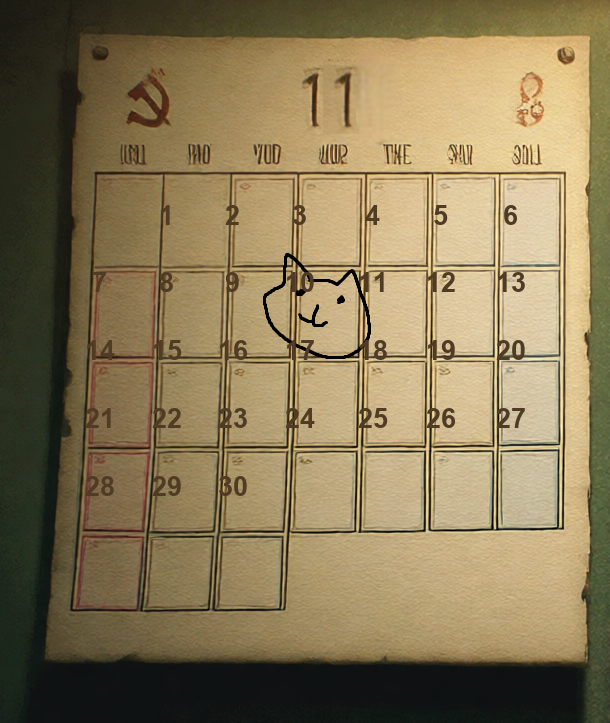
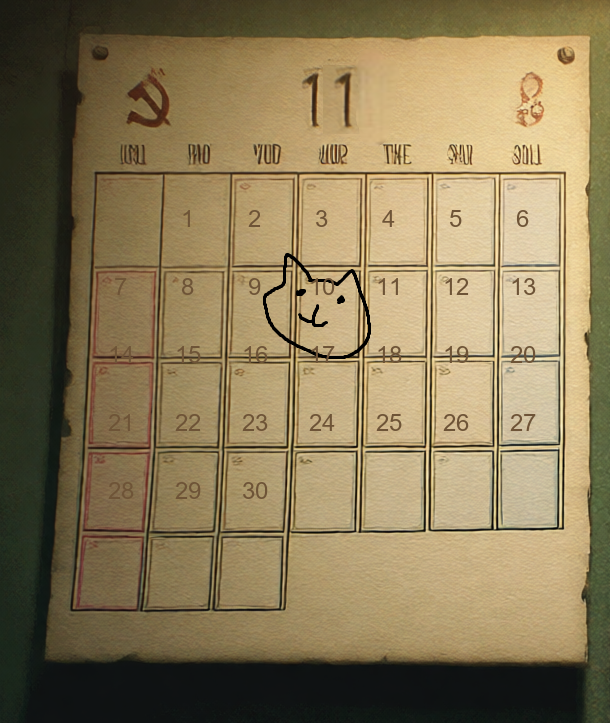
Calendar numbers fit cells; cat on 10

diff --git a/index.html b/index.html
@@ -10,10 +10,10 @@
   <link rel="apple-touch-icon" href="assets/img/favicon.png">
   <link rel="preconnect" href="https://fonts.googleapis.com">
   <link href="https://fonts.googleapis.com/css2?family=DotGothic16&family=Handjet:wght@400..700&family=Noto+Sans+JP:wght@400;500&family=Press+Start+2P&display=swap" rel="stylesheet">
-  <link rel="stylesheet" href="css/base.css?v=26">
-  <link rel="stylesheet" href="css/scenes.css?v=26">
-  <link rel="stylesheet" href="css/ui.css?v=26">
-  <link rel="stylesheet" href="css/effects.css?v=26">
+  <link rel="stylesheet" href="css/base.css?v=27">
+  <link rel="stylesheet" href="css/scenes.css?v=27">
+  <link rel="stylesheet" href="css/ui.css?v=27">
+  <link rel="stylesheet" href="css/effects.css?v=27">
 </head>
 <body>
   <noscript><style>#loader{display:none}</style></noscript>
@@ -273,19 +273,19 @@ DUO QUEUE: ОНЛАЙН.</pre>
       }
     }, 45000);
   </script>
-  <script src="js/zoom.js?v=26"></script>
-  <script src="js/state.js?v=26"></script>
-  <script src="js/scenes.js?v=26"></script>
-  <script src="js/inventory.js?v=26"></script>
-  <script src="js/notes.js?v=26"></script>
-  <script src="js/preload.js?v=26"></script>
-  <script src="js/scene0-boot.js?v=26"></script>
-  <script src="js/scene1-commissariat.js?v=26"></script>
-  <script src="js/scene2-station.js?v=26"></script>
-  <script src="js/scene3-dream.js?v=26"></script>
-  <script src="js/scene4-map.js?v=26"></script>
-  <script src="js/endings.js?v=26"></script>
-  <script src="js/final.js?v=26"></script>
-  <script src="js/audio.js?v=26"></script>
+  <script src="js/zoom.js?v=27"></script>
+  <script src="js/state.js?v=27"></script>
+  <script src="js/scenes.js?v=27"></script>
+  <script src="js/inventory.js?v=27"></script>
+  <script src="js/notes.js?v=27"></script>
+  <script src="js/preload.js?v=27"></script>
+  <script src="js/scene0-boot.js?v=27"></script>
+  <script src="js/scene1-commissariat.js?v=27"></script>
+  <script src="js/scene2-station.js?v=27"></script>
+  <script src="js/scene3-dream.js?v=27"></script>
+  <script src="js/scene4-map.js?v=27"></script>
+  <script src="js/endings.js?v=27"></script>
+  <script src="js/final.js?v=27"></script>
+  <script src="js/audio.js?v=27"></script>
 </body>
 </html>

diff --git a/js/scene1-commissariat.js b/js/scene1-commissariat.js
@@ -306,7 +306,7 @@ Discord. Я написала первой.</pre>`;
           state.flags.calendarStep = 1;
           saveState();
           showViewer(
-            'assets/img/calendar-november.png?v=5',
+            'assets/img/calendar-november.png?v=6',
             '10 ноября обведено котиком. За календарём, между страницами, что-то есть...',
             'Календарь, ноябрь',
             '10 ноября обведено котиком. Между страницами что-то есть...'

diff --git a/js/preload.js b/js/preload.js
@@ -68,7 +68,7 @@
           else complete();
         };
         img.onerror = complete;
-        img.src = 'assets/img/' + name + (name === 'radio.png' ? '?v=2' : name === 'calendar-november.png' ? '?v=5' : '');
+        img.src = 'assets/img/' + name + (name === 'radio.png' ? '?v=2' : name === 'calendar-november.png' ? '?v=6' : '');
       });
     });
   }
